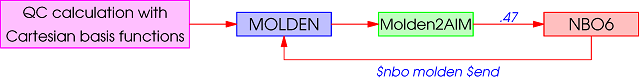
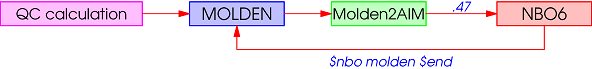
ver.3.2.0

diff --git a/README.md b/README.md
@@ -18,7 +18,7 @@ Version 3.1.0 (02/25/2015).
 ## Features
 
 1. It converts the data format from Molden to AIM's WFN. The latter format can be read by AIMPAC, AIMPAC2, AIM2000, AIMALL, AIM-UC, DGrid, MORPHY98, Multiwfn, PAMoC, ProMolden, TopChem, TopMoD, Xaim, and so on.
-2. It saves NBO's *.47 data file. One can do NBO analysis using the stand-alone GENNBO program. In the case of Cartesian basis functions, the following loop can be performed using NBO6 (released after May.2014).
+2. It saves NBO's *.47 data file. One can do NBO analysis using the stand-alone GENNBO program. In addition, the following loop can be performed using NBO6 (released after May.2014).
 
 The WFX format will be supported in the future.
 
